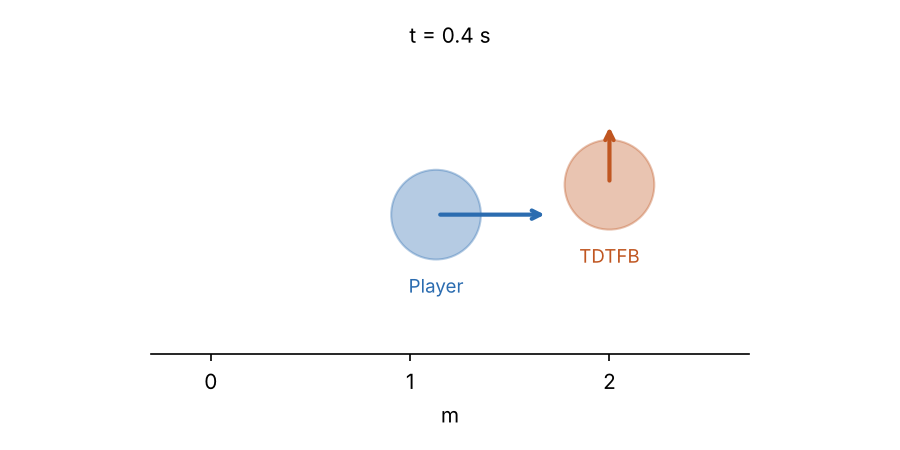
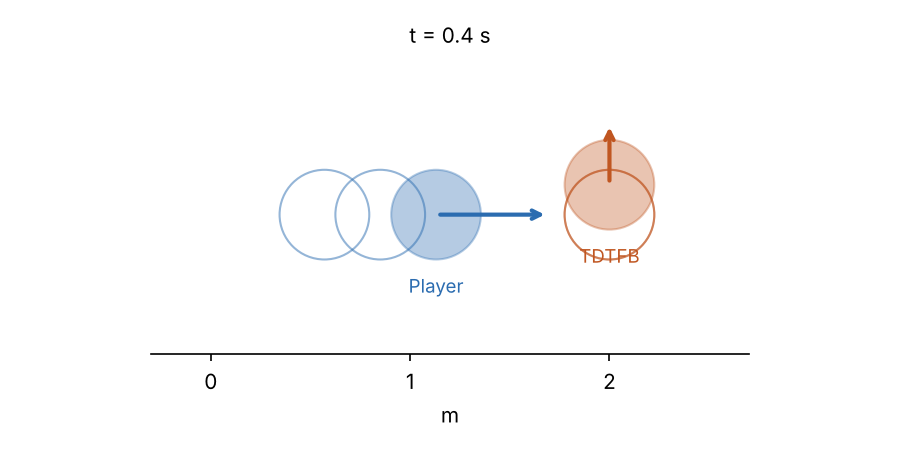
Combat frame: show previous positions as empty circles
Claude-Session: https://claude.ai/code/session_01RGpbufgYSJT2n4v1xECmZw

diff --git a/docs/combat/frames/render_frame.py b/docs/combat/frames/render_frame.py
@@ -9,7 +9,13 @@ STATE = [  # name, x, y, vx, vy, color
     ("Player", 1.13, 0.00, 2.83, 0.00, "#2b6cb0"),
     ("TDTFB", 2.00, 0.15, 0.00, 1.55, "#c05621"),
 ]
+HISTORY = [  # (x, y, color) at earlier turns, drawn as empty circles
+    (0.57, 0.00, "#2b6cb0"), (0.85, 0.00, "#2b6cb0"),  # player t=0.2, 0.3
+    (2.00, 0.00, "#c05621"), (2.00, 0.00, "#c05621"),  # TDTFB t=0.2, 0.3
+]
 fig, ax = plt.subplots(figsize=(6, 3), dpi=150)
+for x, y, c in HISTORY:
+    ax.add_patch(Circle((x, y), 0.225, fill=False, color=c, lw=1, alpha=.5))
 for name, x, y, vx, vy, c in STATE:
     ax.add_patch(Circle((x, y), 0.225, color=c, alpha=.35))
     ax.annotate("", xy=(x + vx * .2, y + vy * .2), xytext=(x, y),
